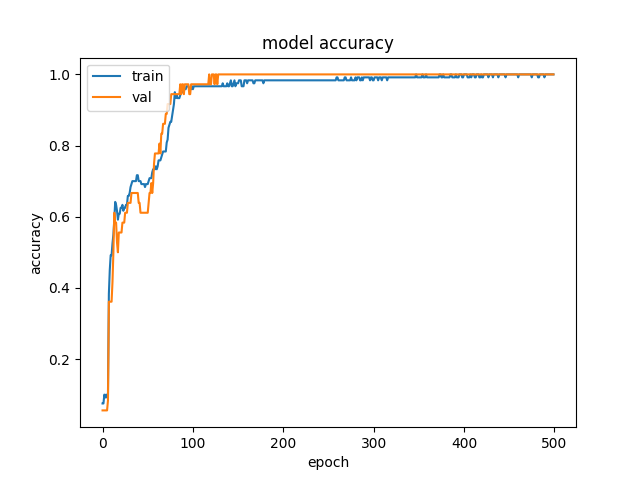
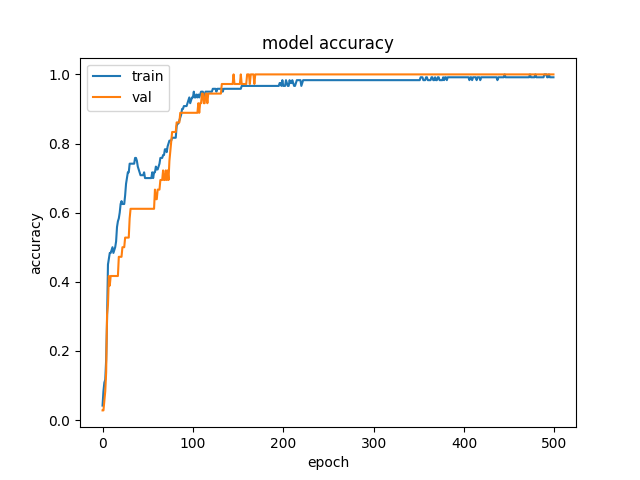
cleanup and results

diff --git a/src/main.py b/src/main.py
@@ -7,65 +7,98 @@ import tensorflow as tf
 import pandas as pd
 import matplotlib.pyplot as plt
 
+
 def plot_history(history, name):
     plt.clf()
-    plt.plot(history.history['accuracy'])
-    plt.plot(history.history['val_accuracy'])
-    plt.title('model accuracy')
-    plt.ylabel('accuracy')
-    plt.xlabel('epoch')
-    plt.legend(['train', 'val'], loc='upper left')
-    plt.savefig("./img/"+name+"_acc.png")
+    plt.plot(history.history["accuracy"])
+    plt.plot(history.history["val_accuracy"])
+    plt.title("model accuracy")
+    plt.ylabel("accuracy")
+    plt.xlabel("epoch")
+    plt.legend(["train", "val"], loc="upper left")
+    plt.savefig("./img/" + name + "_acc.png")
     # summarize history for loss
     plt.clf()
-    plt.plot(history.history['loss'])
-    plt.plot(history.history['val_loss'])
-    plt.title('model loss')
-    plt.ylabel('loss')
-    plt.xlabel('epoch')
-    plt.legend(['train', 'val'], loc='upper left')
-    plt.savefig("./img/"+name+"_loss.png")
+    plt.plot(history.history["loss"])
+    plt.plot(history.history["val_loss"])
+    plt.title("model loss")
+    plt.ylabel("loss")
+    plt.xlabel("epoch")
+    plt.legend(["train", "val"], loc="upper left")
+    plt.savefig("./img/" + name + "_loss.png")
+
+
+def create_model(inputs, encoded_features):
+    all_features = tf.keras.layers.concatenate(encoded_features)
+    m = tf.keras.layers.Dense(6, activation="relu")(all_features)
+    # output layer - 6 categories of stars
+    output = tf.keras.layers.Dense(6, activation="softmax")(m)
+    model = tf.keras.Model(inputs, output)
+    model.compile(
+        optimizer="adam", loss="sparse_categorical_crossentropy", metrics=["accuracy"]
+    )
+    return model
+
 
 random_state = 2137
 
 dataframe = pd.read_csv("6 class csv.csv")
 dataframe["Star color"] = dataframe["Star color"].str.upper()
 
-train = dataframe.sample(frac=0.5, random_state=random_state)
+train = dataframe.sample(frac=0.6, random_state=random_state)
 remaining = dataframe.drop(train.index)
 
-val = remaining.sample(frac=0.3, random_state=random_state)
+val = remaining.sample(frac=0.5, random_state=random_state)
 test = remaining.drop(val.index)
 
 print("TRAIN shape:", train.shape)
 print("VAL shape:", val.shape)
 print("TEST shape:", test.shape)
 
-batch_size = 8
-train_ds = preprocessing.dataframe_to_dataset(train, batch_size=batch_size)
-val_ds = preprocessing.dataframe_to_dataset(val, shuffle=False, batch_size=batch_size)
-test_ds = preprocessing.dataframe_to_dataset(test, shuffle=False, batch_size=batch_size)
+batch_sizes = [1, 2, 4, 8, 16, 32]
 
-(inputs, encoded_features) = preprocessing.encode_features(train_ds, True)
+results = dict()
 
-# model
-all_features = tf.keras.layers.concatenate(encoded_features)
-m = tf.keras.layers.Dense(6, activation="relu")(all_features)
+for batch_size in batch_sizes:
 
-# output layer - 6 categories of stars
-output = tf.keras.layers.Dense(6, activation="softmax")(m)
+    train_ds = preprocessing.dataframe_to_dataset(train, batch_size=batch_size)
+    val_ds = preprocessing.dataframe_to_dataset(
+        val, shuffle=False, batch_size=batch_size
+    )
+    test_ds = preprocessing.dataframe_to_dataset(
+        test, shuffle=False, batch_size=batch_size
+    )
 
-model = tf.keras.Model(inputs, output)
+    (inputs, encoded_features) = preprocessing.encode_features(train_ds, True)
+    (nn_inputs, nn_encoded_features) = preprocessing.encode_features(train_ds, False)
 
-model.compile(
-    optimizer="adam", loss="sparse_categorical_crossentropy", metrics=["accuracy"]
-)
+    model = create_model(inputs, encoded_features)
 
-tf.keras.utils.plot_model(model, show_shapes=True, rankdir="LR")
+    tf.keras.utils.plot_model(model, show_shapes=True, rankdir="LR")
+    history = model.fit(train_ds, epochs=1000, validation_data=val_ds, verbose=0)
 
-history = model.fit(train_ds, epochs=500, validation_data=val_ds)
+    loss, accuracy = model.evaluate(test_ds)
+    print("Accuracy_" + str(batch_size), accuracy)
+    plot_history(history, "history_" + str(batch_size))
 
-loss, accuracy = model.evaluate(test_ds)
-print("Accuracy", accuracy)
+    model_nn = create_model(nn_inputs, nn_encoded_features)
 
-plot_history(history, "history")
+    tf.keras.utils.plot_model(
+        model_nn, show_shapes=True, rankdir="LR", to_file="model_nn.png"
+    )
+    history_nn = model_nn.fit(train_ds, epochs=500, validation_data=val_ds, verbose=0)
+
+    loss_nn, accuracy_nn = model_nn.evaluate(test_ds)
+    print("Accuracy_nn_" + str(batch_size), accuracy_nn)
+    plot_history(history_nn, "history_nn_" + str(batch_size))
+
+    results[batch_size] = (accuracy, loss, accuracy_nn, loss_nn)
+
+res_string = "Batch size,Accuracy,Loss,Accuracy(No Norm.),Loss(No Norm.)\n"
+for key in results:
+    result = results[key]
+    line = "{},{},{},{},{}\n".format(key, result[0], result[1], result[2], result[3])
+    res_string += line
+
+with open("results.csv", 'w') as file:
+    file.write(res_string)
